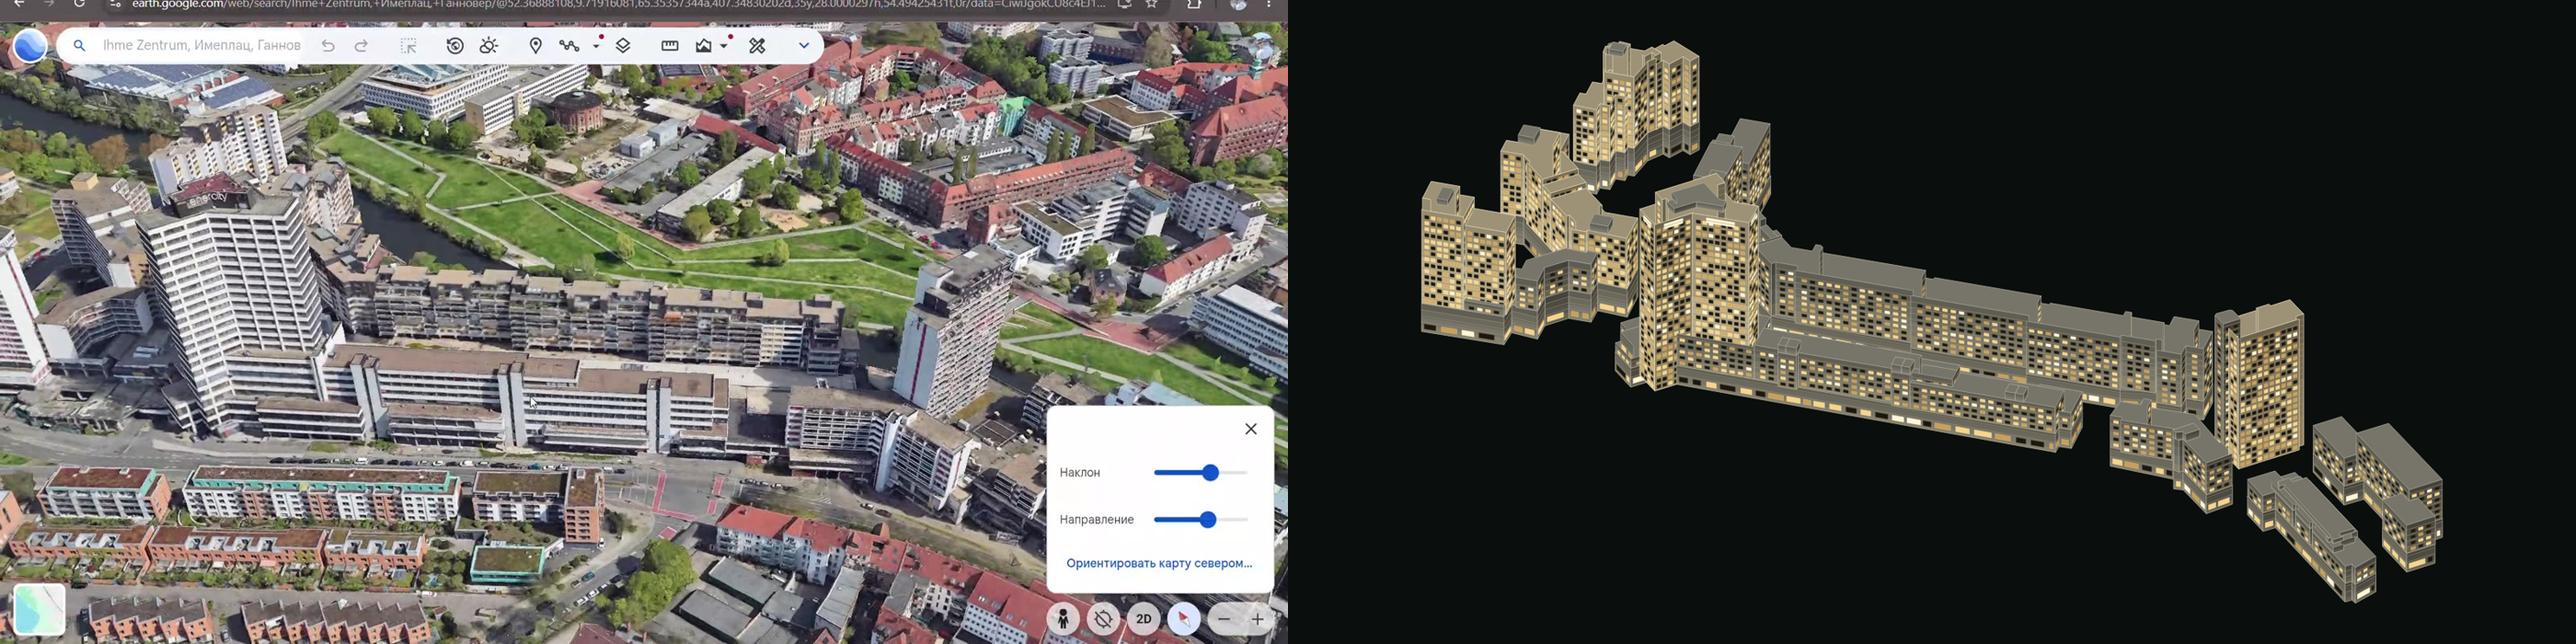
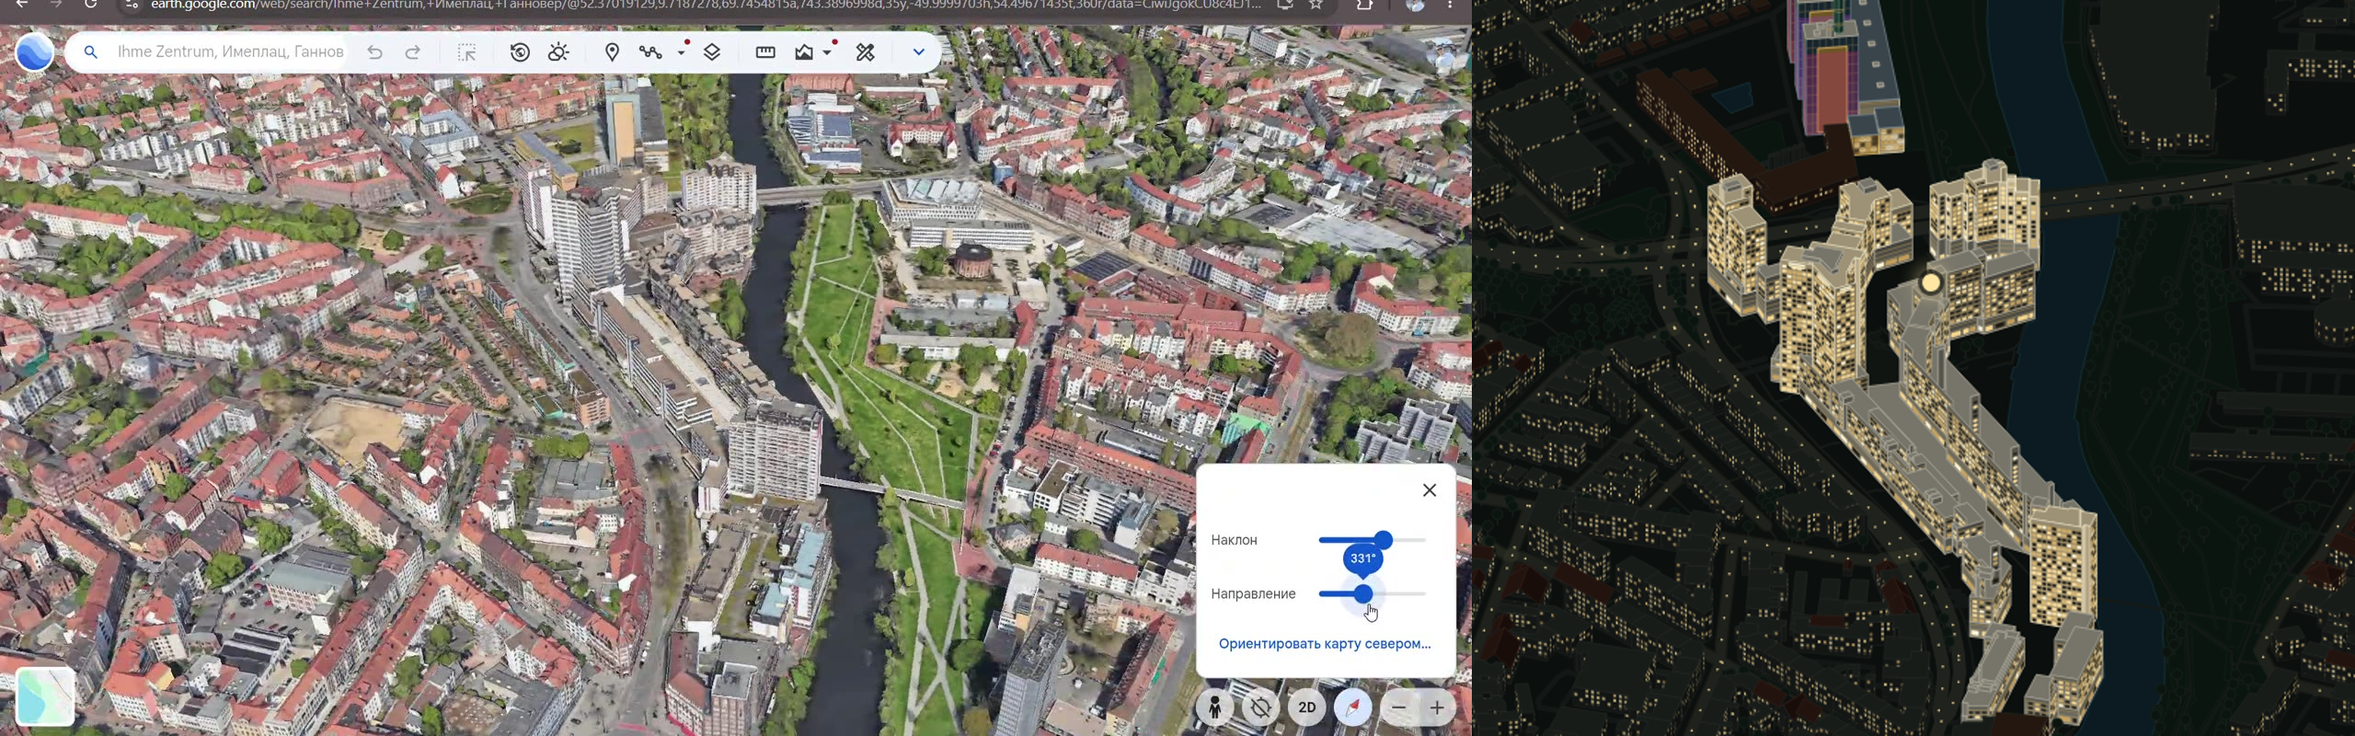
Ihme-Zentrum: облегчённый SVG (−23 %), pin над центром, card_phi 0, метаданные (адрес, год, seo), сравнения, отчёт
Claude-Session: https://claude.ai/code/session_01HgqrCFzLJJJKyQUWfLHxG6

diff --git a/landmarks/ihmezentrum.js b/landmarks/ihmezentrum.js
@@ -64,7 +64,8 @@
     };
 
     /* ---------- Fassaden (Wandkoordinaten: u nach rechts, v nach unten ab Oberkante) ---------- */
-    const rect = (x, y, w, h) => `M${f2(x)} ${f2(y)}h${f2(w)}v${f2(h)}h${f2(-w)}z`;
+    const f1 = v => (Math.round(v * 10) / 10).toString();
+    const rect = (x, y, w, h) => `M${f1(x)} ${f1(y)}h${f1(w)}v${f1(h)}h${f1(-w)}z`;
     const MAT = { 0: 'kc', 1: 'kc', 2: 'pl' };
     // Fensterfeld: ein Pfad je (Klasse × Etagengruppe)
     function windows(len, h, o) {
@@ -81,7 +82,7 @@
       }
       return Object.entries(acc).map(([k, v]) => { const [f, ...c] = k.split(' '); return `<path class="wn${c.length ? ' ' + c.join(' ') : ''}" data-f="${f}" d="${v.join('')}"/>`; }).join('');
     }
-    const lines = (len, ys) => ys.length ? `<path class="dt" d="${ys.map(y => `M0 ${f2(y)}H${f2(len)}`).join('')}"/>` : '';
+    const lines = (len, ys) => ys.length && len >= 6 ? `<path class="dt" d="${ys.map(y => `M0 ${f1(y)}H${f1(len)}`).join('')}"/>` : '';
     const STRIP = { fh: 3.1, bay: 3.8, ww: 2.2, wh: 1.4, sill: .9, mx: 1.2, pOff: .42, pDim: .22, pHi: .06 };
     const TOWER = { fh: 3.2, bay: 2.9, ww: 1.9, wh: 1.7, sill: .9, mx: 1.0, pOff: .44, pDim: .22, pHi: .05 };
     function deco(p) {
@@ -102,6 +103,15 @@
       };
     }
 
+    // Wand wie K.wall, aber Anstrahlungs-Streifen nur bei großen Wänden (spart ~25 % SVG)
+    const wall2 = (K, L, R, z0, z1, mat, deco) => {
+      const dx = R[0] - L[0], dy = R[1] - L[1], len = Math.hypot(dx, dy), nx = -dy / len, ny = dx / len;
+      if (K.facing(nx, ny) <= 1e-6) return '';
+      const h = z1 - z0, t = K.plane([L[0], L[1], z1], [dx / len, dy / len, 0], [0, 0, -1]);
+      let sh = '';
+      if (len >= 9 && h >= 9) sh = `<rect class="wsh" fill="#000" opacity="0" width="${f2(len)}" height="${f2(h * .5)}"/><rect class="wsh" fill="#000" opacity="0" width="${f2(len)}" height="${f2(h * .22)}"/><rect class="wsl" fill="#FFCF73" opacity="0" y="${f2(h * .78)}" width="${f2(len)}" height="${f2(h * .22)}"/>`;
+      return `<g transform="${t}"><rect class="${mat} ${ny * K.view[0] - nx * K.view[1] >= 0 ? 'fr' : 'sd'}" width="${f2(len)}" height="${f2(h)}"/>${sh}${deco ? deco(len, h) : ''}</g>`;
+    };
     /* ---------- Zeichnen ---------- */
     const draw = K => {
       let s = '';
@@ -112,7 +122,7 @@
         const mat = MAT[p.k], v = p.v, n = v.length;
         // Dach eines Teils als EIN Polygon (keine Nähte der Zerlegung), gezeichnet beim ersten Stück
         if (!topDone.has(p.part)) { topDone.add(p.part); const t = T[p.part]; const pts = []; for (let i = 0; i < t.length; i += 2) pts.push([t[i], t[i + 1], Z0 + p.z1]); s += K.poly(pts, mat + ' tp'); }
-        for (let i = 0; i < n; i++) if (p.m >> i & 1) s += K.wall(v[i], v[(i + 1) % n], Z0 + p.z0, Z0 + p.z1, mat, deco(p));
+        for (let i = 0; i < n; i++) if (p.m >> i & 1) s += wall2(K, v[i], v[(i + 1) % n], Z0 + p.z0, Z0 + p.z1, mat, deco(p));
       });
       return s;
     };
@@ -125,6 +135,6 @@
       return lo.slice(0, -1).concat(up.slice(0, -1));
     })();
     const M = [{ id: 'ihme', fp, draw }];
-    return { mods: M, lc: [0, 0], z0: 0, top: [-140, 60, Z0 + 92], label: 'Ihme-Zentrum', h: 92, len: 150 };
+    return { mods: M, lc: [0, 0], z0: 0, top: [-140, 60, Z0 + 92], pin: [-40, 14, Z0 + 96], label: 'Ihme-Zentrum', h: 92, len: 150 };
   });
 })();

diff --git a/ref/ihmezentrum/README.md b/ref/ihmezentrum/README.md
@@ -1,25 +1,22 @@
 # Ihme-Zentrum — отчёт
 
-**Что нарисовано.** Весь комплекс как один модуль (`landmarks/ihmezentrum.js`): 63 части OSM (`building:part`: подиум 10/15 м, ряды 16–47 м, башни 70–89 м), 277 выпуклых кусков с собственной сортировкой по глубине. Окна — по одному `<path>` на класс×группу этажей на стену; цоколь с лентой магазинов; красная полоса на южных башнях; светящаяся вывеска enercity вверху западной башни. Вес SVG ≈ 290 КБ (3250 узлов) — тяжелее, чем обычное здание (HKW ≈ 55 КБ), но комплекс 150 м.
+**Что сделано (доработка p_ihmezentrum).**
+- Проверено по кадрам: серая плоскость DECK между речным и южным рядом верна (v_18, v_19). Силуэт, положение башен и длинного ряда совпадают на трёх сравнениях (`vergleich-1…3.png`: вид карты v_06, север v_02 с `card_phi` 180, юг v_19 с `card_phi` 270).
+- Облегчена карточка: стены рисуются своей функцией (`wall2`) — полосы подсветки только у стен ≥ 9 м, окна и пояса с одним знаком после запятой, линии этажей только у стен ≥ 6 м. SVG: было ≈ 318 КБ / 3351 узел, стало ≈ 244 КБ / 2652 узла (минус ≈ 23 %), вид не изменился.
+- Точка на карте: `pin: [-40, 14, Z0 + 96]` — над объёмным центром комплекса (раньше стояла над северным краем, у реки).
+- Метаданные: добавлены `addr` (Ihmeplatz 1, 30449 Hannover), `year` 1975, `seo` (109 слов), уточнён `studio`. Архитектор в источниках не найден — поле `arch` не заполнено.
 
-**Сторона → кадры.**
-| Сторона | Кадры |
-|---|---|
-| Юг | v_18, v_19 |
-| Восток / башни | v_02, v_10 |
-| Север/река | частично v_02, v_10; в ISO-виде скрыта |
-| Крыши | облёт v_01…v_20 |
+**Размер и положение.** `point` 150 м и `len` 150 — `fit` = ×1,0. Геометрия в настоящих метрах по 63 OSM-частям, полный размер комплекса ≈ 446 × 355 м. Ориентация — по OSM, на карте комплекс стоит вдоль Ihme.
 
-**По аналогии (кадров не хватило).** Северные фасады и балконы, внутренние дворы, детали крыш. Свет окон: доля горящих ≈ 1/3 по ночным фото, равномерно-случайно.
+**`card_phi` = 0.** Тот же ракурс, что на карте (с ЮЮВ): на телефоне комплекс занимает весь экран, видны освещённые южные фасады и башни. Повороты 90/270 дают узкую полосу на телефоне; 180 показывает северную сторону. Ошибок порядка рисования при 0/90/180/270 не видно.
 
-**Непроверенные факты.** 860 квартир, открытие 31.10.1974, высота башни enercity 89 м (из OSM), состояние/реконструкция — по Википедии, второй источник не сверен.
+**Что осталось.**
+- Северные фасады, балконы и внутренние дворы нарисованы по аналогии (кадров с нужной стороны и крупным планом нет). Нужны приближенные кадры: северный фасад речного ряда с балконами и внутренний двор над подиумом.
+- Высота enercity ≈ 89 м взята из OSM; второй источник не сверен. Цифры «860 квартир, ≈ 2400 жителей» — Wikipedia (англ.).
+- Адрес `Ihmeplatz 1` — по категории Wikimedia Commons; почтовый индекс 30449 не сверялся по второму источнику.
 
-**Сравнения.** `vergleich-1.png` (юг, v_19 — совпадает силуэт, пропорции, башни), `vergleich-2.png` (v_02), `vergleich-3.png` (v_10; ракурс повёрнут примерно — направление камеры подбиралось на глаз).
-
-**Нужно от сборщика/core.**
-1. Здание задано `point` [52.370699, 9.718156, 150 м] + `osm` ids (съедаются контуры); prep удаляет дома внутри квадрата — проверь результат.
-2. `tools/scene.js`: culling-квадрат зависит от размера якоря.
-3. `tools/map-crop.mjs` даёт пустую картинку (не вызывает `SCENE.region`); в `tools/*` путь CHROME по умолчанию (chromium-1194) неверный.
-4. osm-extract выбрасывает `building:part`; комплекс есть только как part — данные встроены из OSM API (`ref/ihmezentrum/gen/`, парсер и `embed.py`).
-5. Комплекс внутри зоны core (bbox 52.3542–52.3995, 9.682–9.7618).
-6. Разбиение: один mod (фасады одной точки зрения, сортировка внутри), логические группы: подиум, прибрежная полоса, южная полоса, северное крыло, башни. Если сборщик захочет тоньше SVG — можно уменьшить число окон (`STRIP/TOWER`).
+**Для сборщика/core.**
+1. Здание задано `point` [52.370699, 9.718156, 150] + `osm` ids; prep удаляет дома внутри квадрата — результат на карте проверен, лишнего не видно.
+2. `tools/scene.js`: culling-квадрат зависит от размера якоря; комплекс шире якоря (≈ 446 × 355 м), на карте обрезки не замечено.
+3. osm-extract выбрасывает `building:part`; данные встроены из OSM API (`ref/ihmezentrum/gen/`, парсер и `embed.py`).
+4. Если нужно ещё легче: уменьшить число окон (`STRIP`/`TOWER` в модуле).

diff --git a/ref/ihmezentrum/INDEX.md b/ref/ihmezentrum/INDEX.md
@@ -1,18 +1,20 @@
 # Ihme-Zentrum — разбор кадров
 
-Камера проекта: вид с ЮВ (≈ 151° → направление взгляда 331°), наклон 54°. Север на кадрах Google Earth не всегда сверху.
+Камера проекта: взгляд на 331° (с ЮЮВ на ССЗ), наклон 54°. Направление камеры кадров — из URL Google Earth (ползунок «Направление» отстаёт от URL).
 
-| Кадр | Откуда камера | Что видно | Годится для |
+| Кадр | Направление камеры | Что видно | Годится для |
 |---|---|---|---|
-| v_19, v_18 | с юга на север (над Blumenauer Str./Ihme-стороной улицы Ihmeplatz) | южный фасад длинных рядов, цоколь с магазинами, башня enercity (запад, слева) и южные башни (восток, справа, красная полоса) | пропорции, число этажей, ритм окон, цоколь, силуэт |
-| v_02 | с юго-востока вдоль Ihme | восточные торцы, южные башни, река и парк | восточная сторона, башни |
-| v_10 | с востока (ползунок «Направление» 92°) | вид вдоль комплекса, башни и ряды | порядок высот, северное крыло |
-| v_01…v_20 (остальные) | облёт | крыши, парковки, северное крыло | крыши, надстройки |
-| ihmezentrum-nacht1/2 | ночь | какие окна светятся | доля светящихся окон (небольшая, ≈ 1/3) |
+| v_06 | −50° (310°) | почти как на карте: башня enercity впереди слева, длинная лента к ЮВ-башне | сверка вида карты (vergleich-1) |
+| v_07 | −6° | то же, чуть с юга | пропорции, порядок высот |
+| v_02, v_01 | 180° (взгляд на юг) | северная сторона, река, северное крыло | сверка с card_phi 180 (vergleich-2) |
+| v_19, v_18, v_20 | 28° (взгляд на ССВ) | южный фасад длинных рядов, цоколь с магазинами, башня enercity слева, южные башни справа | сверка с card_phi 270 (vergleich-3), число этажей, ритм окон |
+| v_03…v_05, v_08…v_17 | облёт | крыши, парковки, северное крыло | крыши, надстройки |
+| ihmezentrum-nacht1/2 | ночь | какие окна светятся | доля светящихся окон (≈ 1/3) |
+| ihmezentrum-luftbild | сверху | план комплекса | контуры, направление ленты |
 
 ## Чеклист по сторонам
-- Юг (улица): цоколь 10–15 м с лентой магазинов, над ним ряды 5–9 этажей, горизонтальные бетонные пояса; кадры v_18/v_19.
-- Север (к реке) и восток: видны только частично (в ISO-виде от ЮВ скрыты) — по кадрам v_02/v_10, детали балконов не разобрать → рисуем ритм по аналогии.
-- Башни: 21–23 этажа, светлый бетон, узкие окна; enercity (89 м) — вывеска вверху; южные башни — красная вертикальная полоса.
-- Крыши: плоские, с мелкими надстройками; цвет тёмно-серый.
-- Не видно: внутренние дворы/террасы на уровне подиума, подробности северного крыла.
+- Юг (улица): цоколь 10–15 м с лентой магазинов, над ним ряды, горизонтальные бетонные пояса — v_18/v_19.
+- Север (к реке) и восток: в виде карты частично скрыты; ритм окон и балконов — по аналогии (кадры дают лишь общий вид).
+- Башни: ≈ 20 этажей, светлый бетон; enercity (≈ 89 м) — вывеска вверху; южные башни — красная вертикальная полоса.
+- Крыши: плоские, тёмно-серые; серая плоскость между речным и южным рядом (DECK) подтверждена кадрами v_18/v_19.
+- Не видно: внутренние дворы и террасы на уровне подиума, детали северного крыла.
